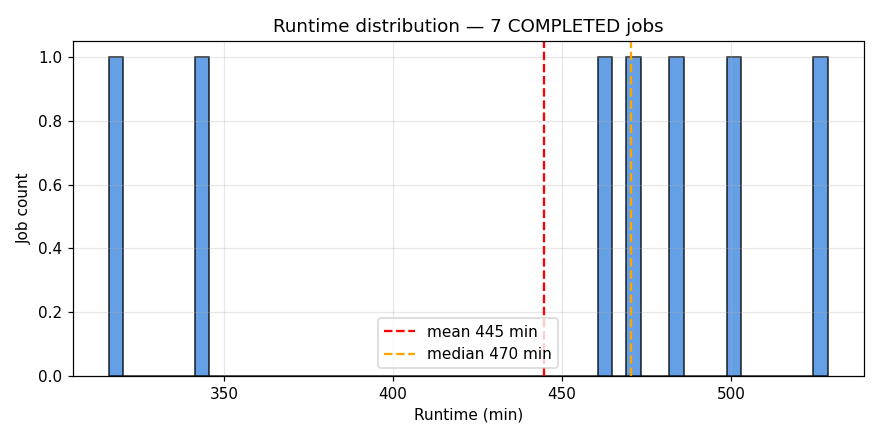
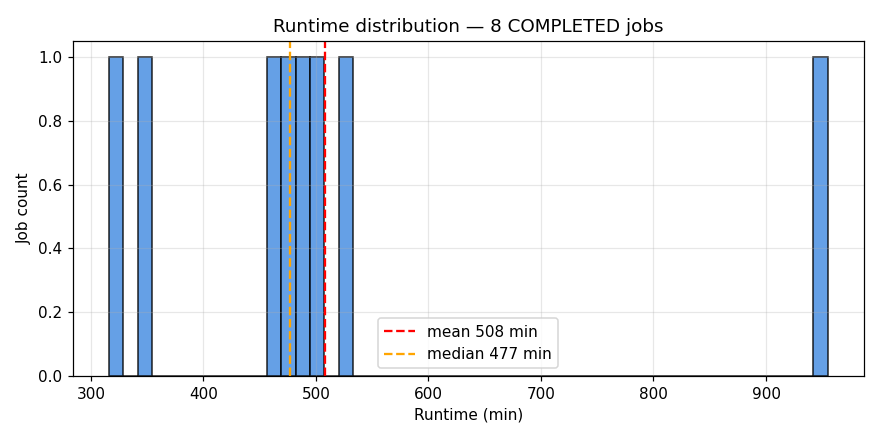
auto: 2026-09-24 00:55:07

diff --git a/index.html b/index.html
@@ -24,22 +24,22 @@ tr:nth-child(even) { background: #fafafa; }
 </style>
 </head><body>
 <h1>AF3 Campaign Dashboard</h1>
-<p class="stamp">Last updated: <strong>2026-09-23 23:54 EDT</strong> · regenerated on the cluster hourly · this page auto-reloads every 30 min</p>
+<p class="stamp">Last updated: <strong>2026-09-24 00:55 EDT</strong> · regenerated on the cluster hourly · this page auto-reloads every 30 min</p>
 
 <div class="cards">
-  <div class="card"><div class="v">445</div><div class="l">Total COMPLETED pairs</div></div>
-  <div class="card"><div class="v">363</div><div class="l">Done today</div></div>
-  <div class="card"><div class="v">363</div><div class="l">Last 24 h rate</div></div>
-  <div class="card"><div class="v">21 / 18</div><div class="l">Running / Pending now</div></div>
+  <div class="card"><div class="v">493</div><div class="l">Total COMPLETED pairs</div></div>
+  <div class="card"><div class="v">232</div><div class="l">Done today</div></div>
+  <div class="card"><div class="v">411</div><div class="l">Last 24 h rate</div></div>
+  <div class="card"><div class="v">20 / 18</div><div class="l">Running / Pending now</div></div>
 </div>
 
 <h2>Live queue</h2>
 <div class="plots">
   <div>
-    <h3>RUNNING (21)</h3>
+    <h3>RUNNING (20)</h3>
     <div class="queue-table">
       <table><thead><tr><th>Job</th><th>Elapsed</th><th>Left</th><th>Reason / Node</th></tr></thead>
-      <tbody><tr><td>af3_p052_b002</td><td>5:35:52</td><td>1-18:24:08</td><td>alphagpu53</td></tr><tr><td>af3_p050_b001</td><td>6:21:20</td><td>1-17:38:40</td><td>alphagpu52</td></tr><tr><td>af3_p052_b001</td><td>5:44:17</td><td>1-18:15:43</td><td>alphagpu54</td></tr><tr><td>af3_p049_b002</td><td>6:22:55</td><td>1-17:37:05</td><td>alphagpu53</td></tr><tr><td>af3_p049_b001</td><td>6:23:58</td><td>1-17:36:02</td><td>alphagpu52</td></tr><tr><td>af3_p051_b002</td><td>5:57:00</td><td>1-18:03:00</td><td>alphagpu51</td></tr><tr><td>af3_p048_b002</td><td>6:46:37</td><td>1-17:13:23</td><td>alphagpu53</td></tr><tr><td>af3_p051_b001</td><td>6:16:06</td><td>1-17:43:54</td><td>alphagpu54</td></tr><tr><td>af3_p050_b002</td><td>6:16:37</td><td>1-17:43:23</td><td>alphagpu53</td></tr><tr><td>af3_p048_b001</td><td>7:26:49</td><td>1-16:33:11</td><td>alphagpu51</td></tr><tr><td>af3_p047_b002</td><td>7:39:27</td><td>1-16:20:33</td><td>alphagpu51</td></tr><tr><td>af3_p045_b002</td><td>7:47:52</td><td>1-16:12:08</td><td>alphagpu51</td></tr><tr><td>af3_p047_b001</td><td>7:43:40</td><td>1-16:16:20</td><td>alphagpu54</td></tr><tr><td>af3_p046_b001</td><td>7:47:52</td><td>1-16:12:08</td><td>alphagpu52</td></tr><tr><td>af3_p046_b002</td><td>7:47:52</td><td>1-16:12:08</td><td>alphagpu53</td></tr><tr><td>af3_p045_b001</td><td>12:44:48</td><td>1-11:15:12</td><td>alphagpu52</td></tr><tr><td>af3_p044_b001</td><td>13:11:07</td><td>1-10:48:53</td><td>alphagpu53</td></tr><tr><td>af3_p044_b002</td><td>13:13:43</td><td>1-10:46:17</td><td>alphagpu54</td></tr><tr><td>af3_p042_b002</td><td>13:54:41</td><td>1-10:05:19</td><td>alphagpu51</td></tr><tr><td>af3_p042_b001</td><td>14:10:42</td><td>1-09:49:18</td><td>alphagpu54</td></tr><tr><td>af3_p041_b001</td><td>15:47:10</td><td>1-08:12:50</td><td>alphagpu53</td></tr></tbody></table>
+      <tbody><tr><td>af3_p052_b002</td><td>6:36:36</td><td>1-17:23:24</td><td>alphagpu53</td></tr><tr><td>af3_p050_b001</td><td>7:22:04</td><td>1-16:37:56</td><td>alphagpu52</td></tr><tr><td>af3_p052_b001</td><td>6:45:01</td><td>1-17:14:59</td><td>alphagpu54</td></tr><tr><td>af3_p049_b002</td><td>7:23:39</td><td>1-16:36:21</td><td>alphagpu53</td></tr><tr><td>af3_p049_b001</td><td>7:24:42</td><td>1-16:35:18</td><td>alphagpu52</td></tr><tr><td>af3_p051_b002</td><td>6:57:44</td><td>1-17:02:16</td><td>alphagpu51</td></tr><tr><td>af3_p048_b002</td><td>7:47:21</td><td>1-16:12:39</td><td>alphagpu53</td></tr><tr><td>af3_p051_b001</td><td>7:16:50</td><td>1-16:43:10</td><td>alphagpu54</td></tr><tr><td>af3_p050_b002</td><td>7:17:21</td><td>1-16:42:39</td><td>alphagpu53</td></tr><tr><td>af3_p048_b001</td><td>8:27:33</td><td>1-15:32:27</td><td>alphagpu51</td></tr><tr><td>af3_p047_b002</td><td>8:40:11</td><td>1-15:19:49</td><td>alphagpu51</td></tr><tr><td>af3_p045_b002</td><td>8:48:36</td><td>1-15:11:24</td><td>alphagpu51</td></tr><tr><td>af3_p047_b001</td><td>8:44:24</td><td>1-15:15:36</td><td>alphagpu54</td></tr><tr><td>af3_p046_b001</td><td>8:48:36</td><td>1-15:11:24</td><td>alphagpu52</td></tr><tr><td>af3_p046_b002</td><td>8:48:36</td><td>1-15:11:24</td><td>alphagpu53</td></tr><tr><td>af3_p045_b001</td><td>13:45:32</td><td>1-10:14:28</td><td>alphagpu52</td></tr><tr><td>af3_p044_b001</td><td>14:11:51</td><td>1-09:48:09</td><td>alphagpu53</td></tr><tr><td>af3_p044_b002</td><td>14:14:27</td><td>1-09:45:33</td><td>alphagpu54</td></tr><tr><td>af3_p042_b002</td><td>14:55:25</td><td>1-09:04:35</td><td>alphagpu51</td></tr><tr><td>af3_p042_b001</td><td>15:11:26</td><td>1-08:48:34</td><td>alphagpu54</td></tr></tbody></table>
     </div>
   </div>
   <div>
@@ -62,7 +62,7 @@ tr:nth-child(even) { background: #fafafa; }
 </div>
 
 <h2>All-time job state breakdown</h2>
-<table><thead><tr><th>State</th><th>Count</th></tr></thead><tbody><tr><td>RUNNING</td><td>21</td></tr><tr><td>PENDING</td><td>18</td></tr><tr><td>COMPLETED</td><td>7</td></tr></tbody></table>
+<table><thead><tr><th>State</th><th>Count</th></tr></thead><tbody><tr><td>RUNNING</td><td>20</td></tr><tr><td>PENDING</td><td>18</td></tr><tr><td>COMPLETED</td><td>8</td></tr></tbody></table>
 
 <p class="stamp"><small>Generated by <code>generate.py</code> on the SUNY HPC cluster.
 Source / regeneration policy at <a href="https://github.com/matvei-lukianov/af3-dashboard">github.com/matvei-lukianov/af3-dashboard</a></small></p>
